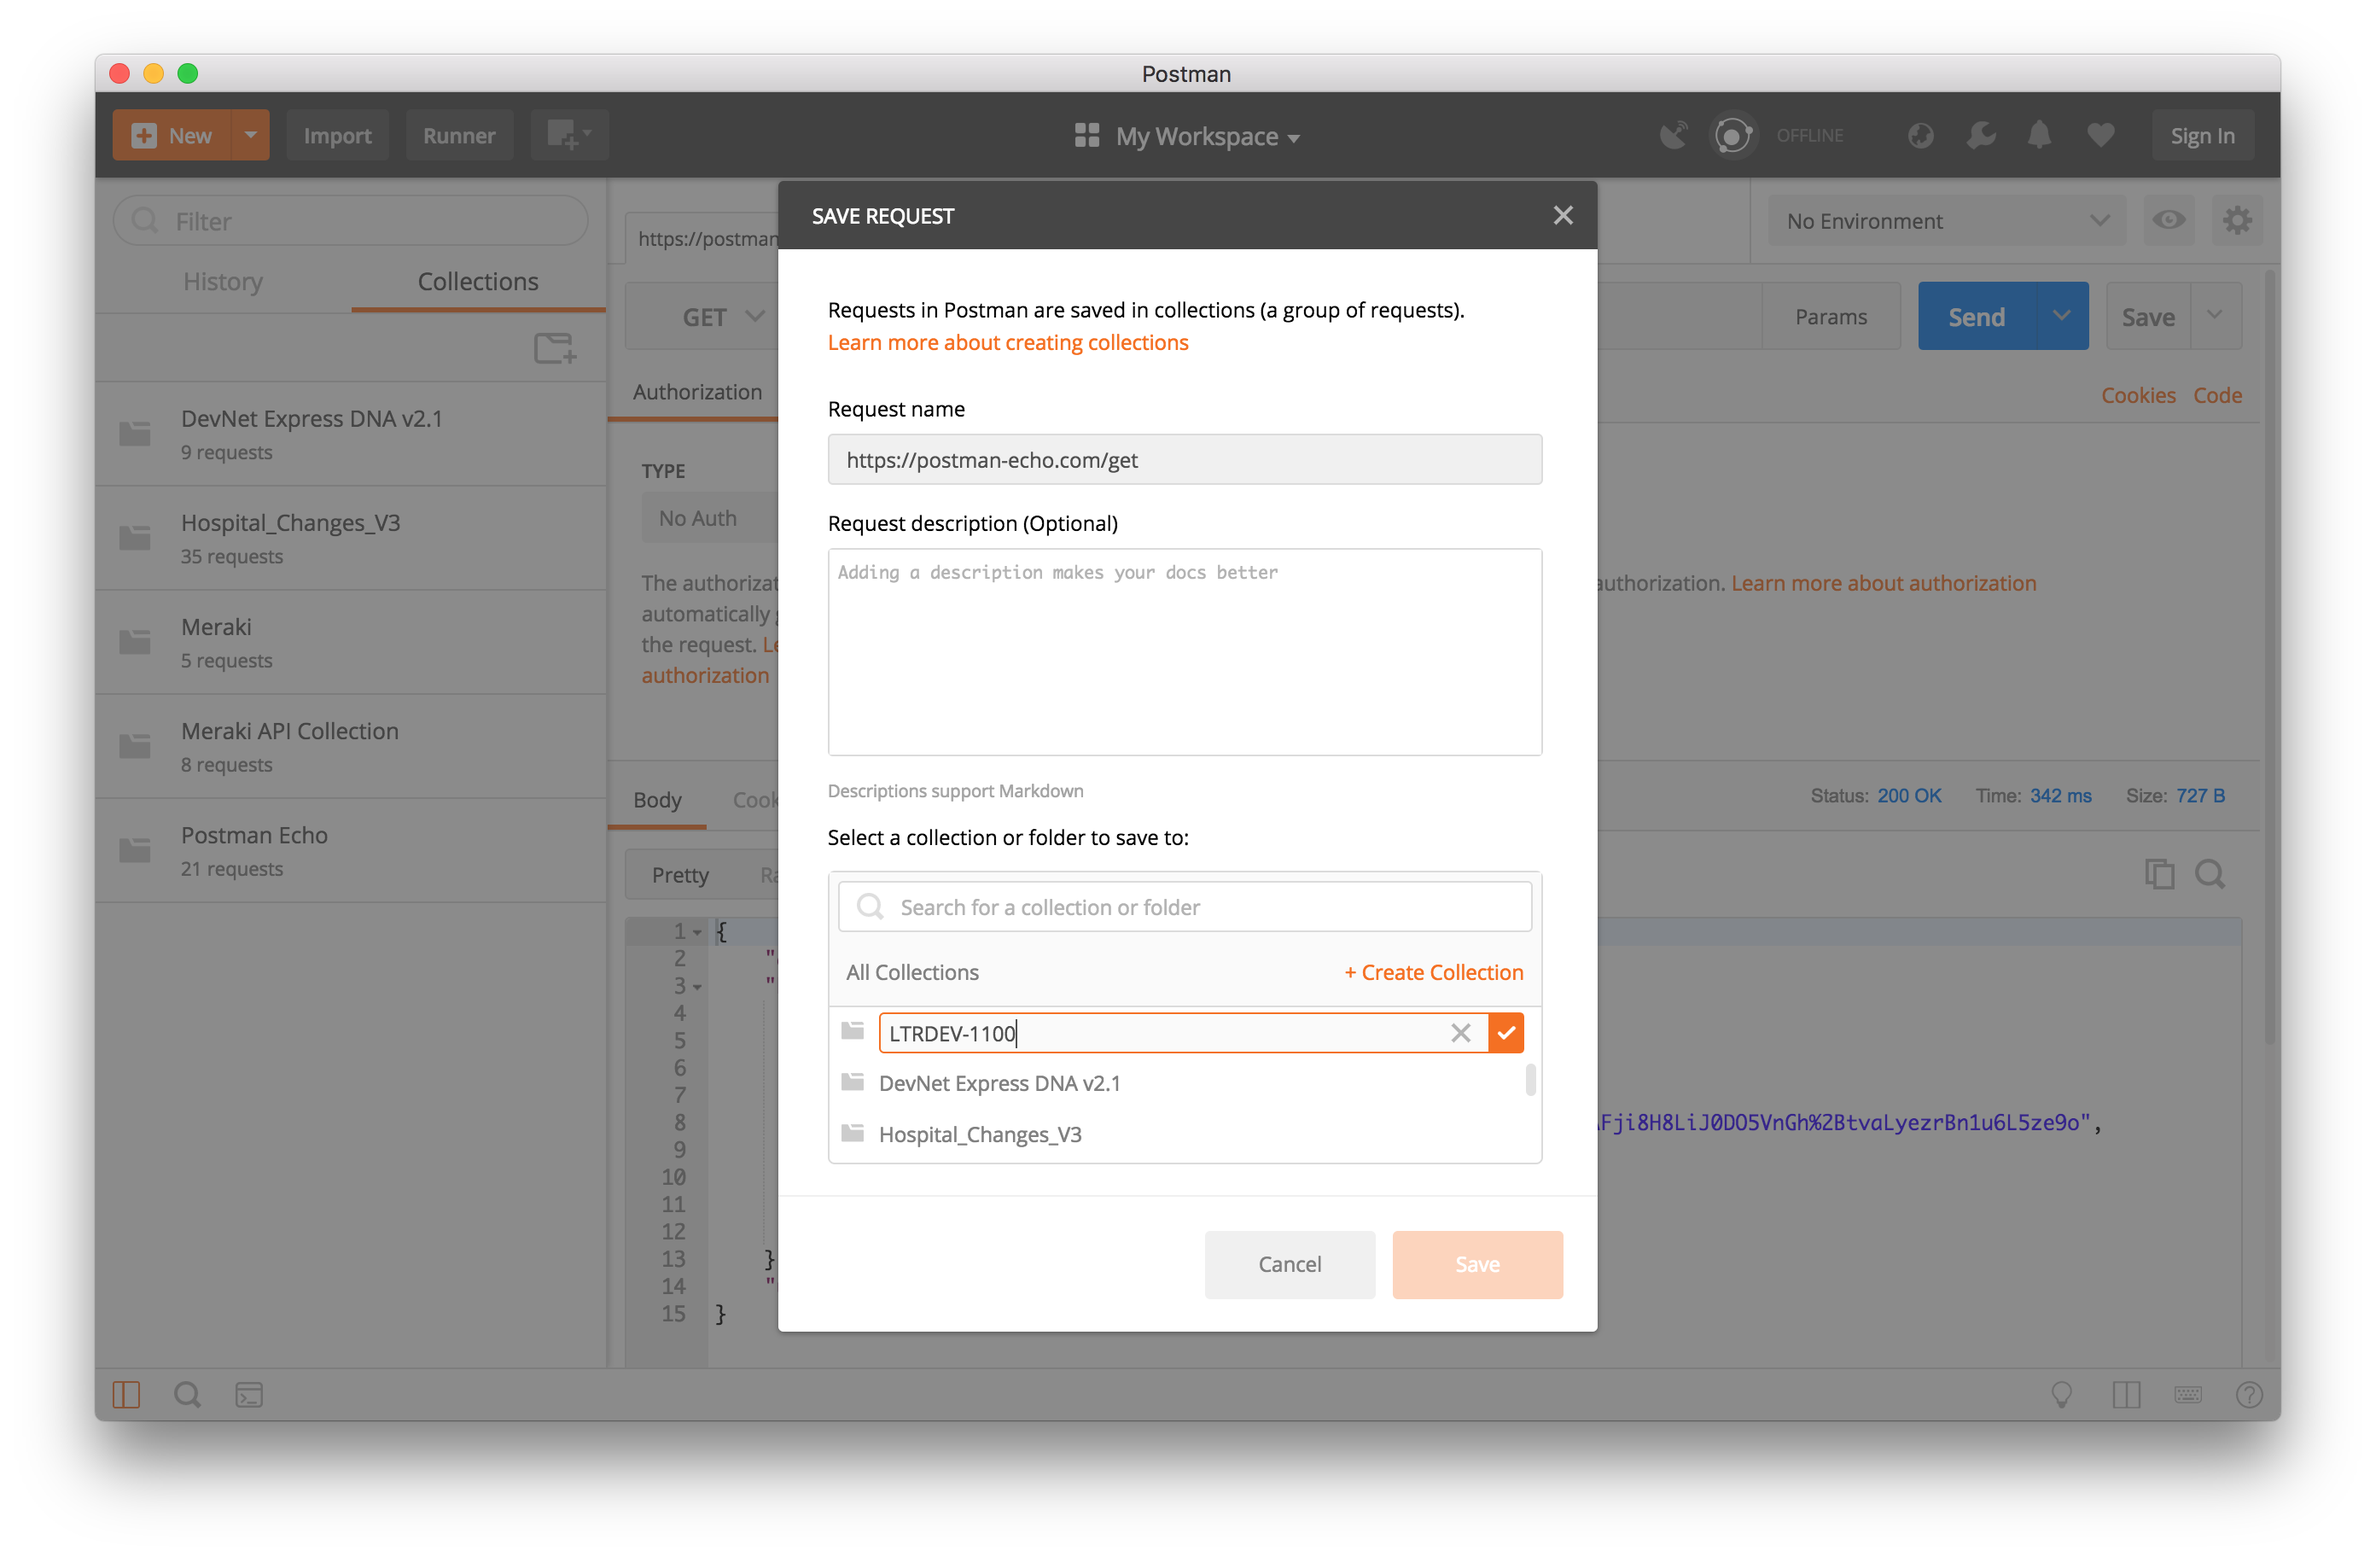
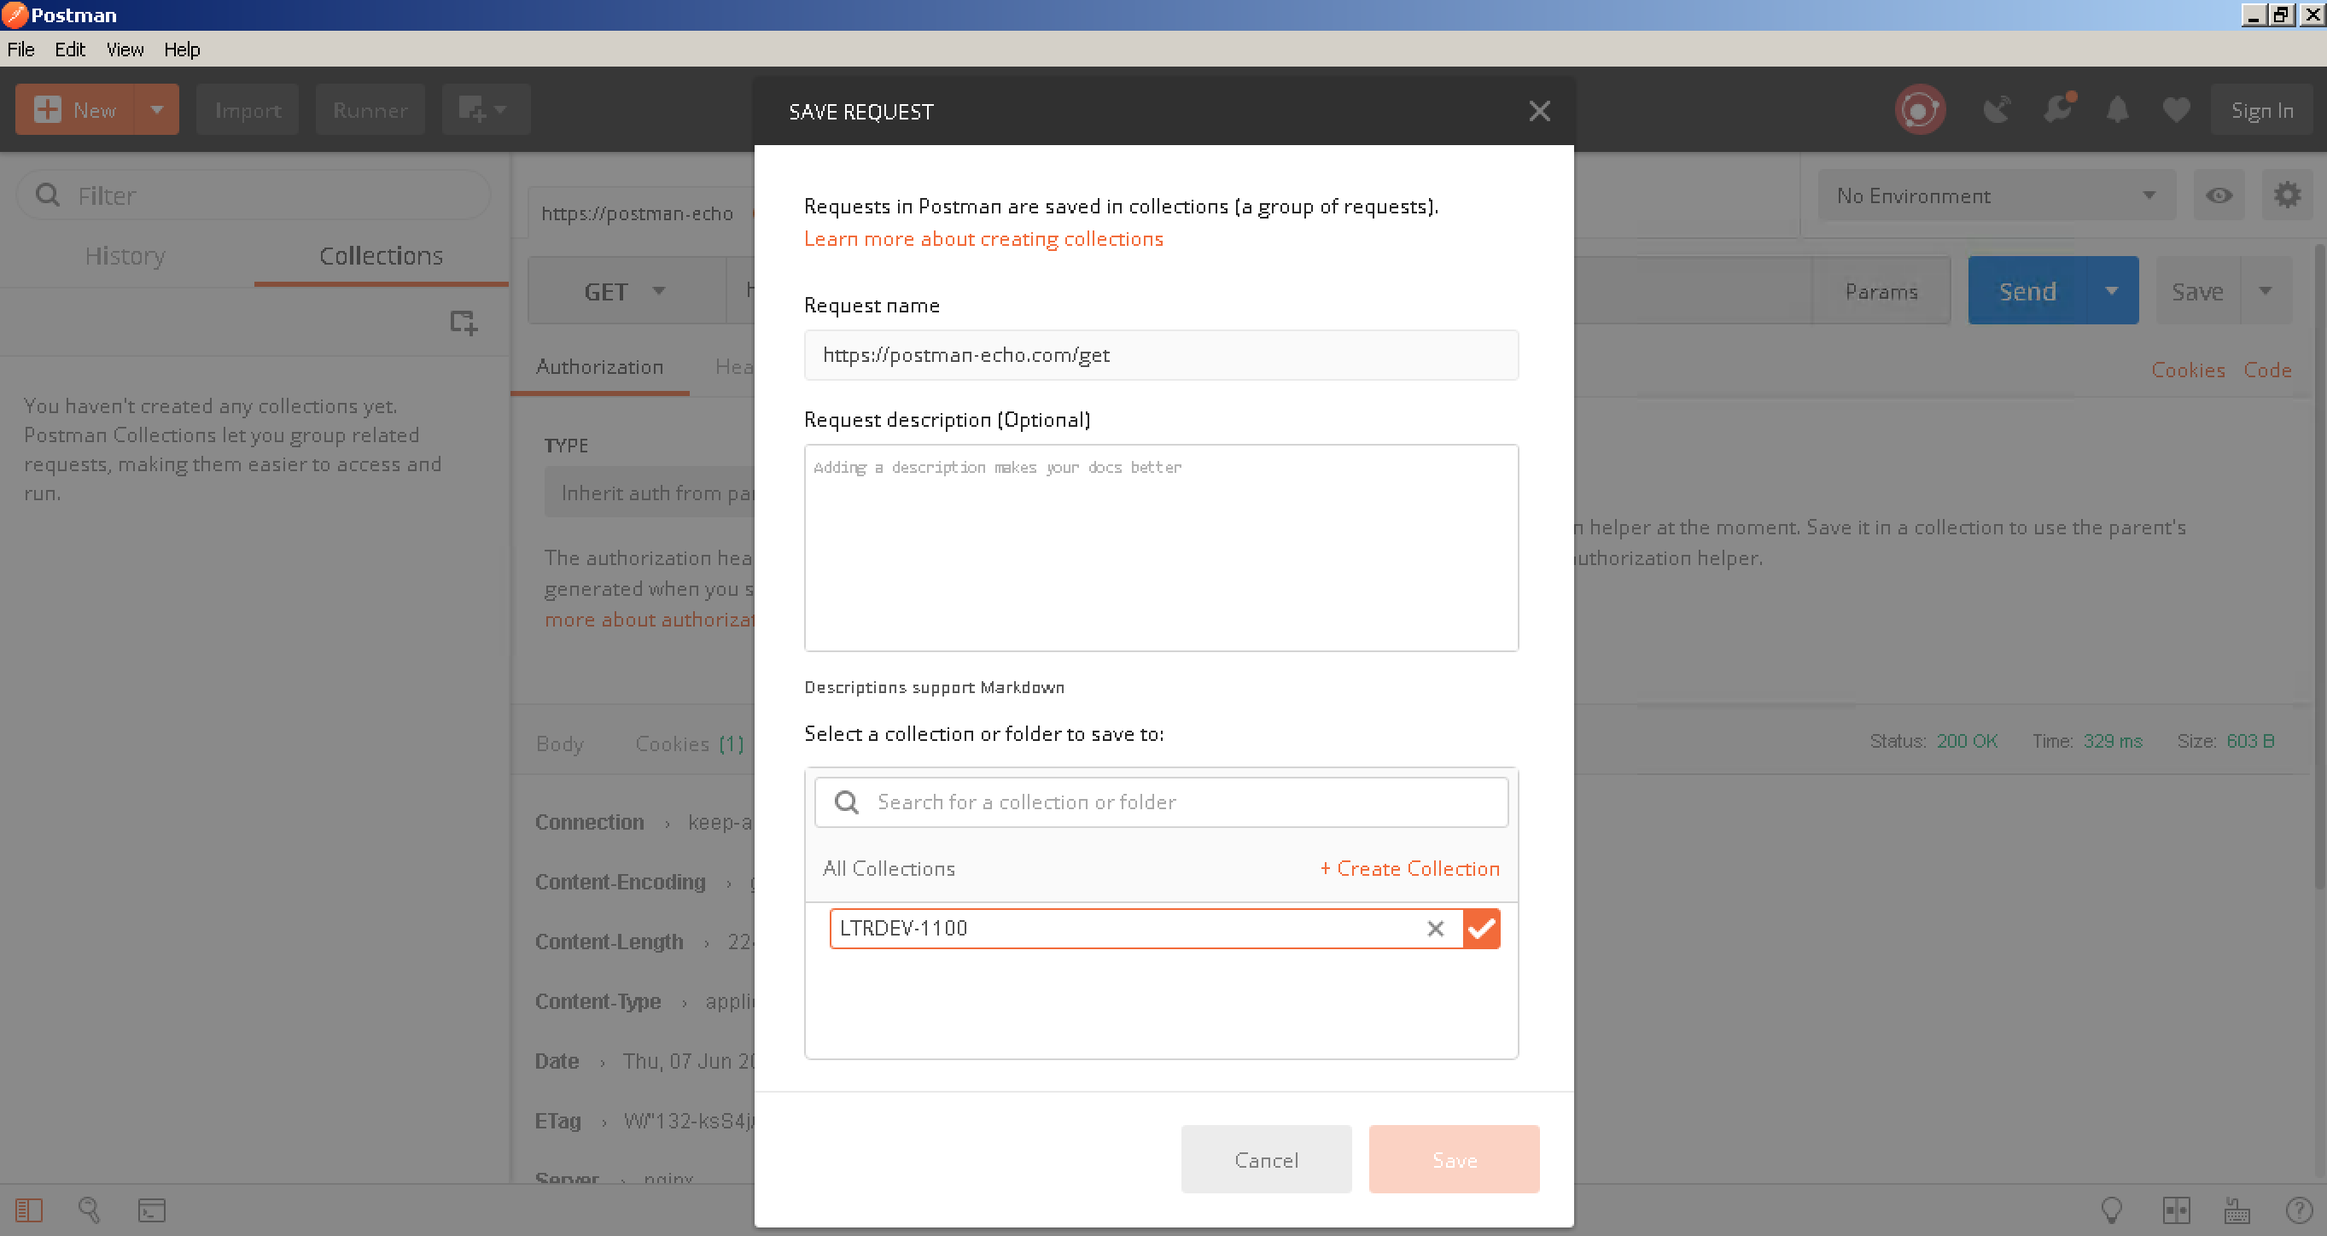
split postman and API content differently

diff --git a/guide/LTRDEV-1100-Guide-02f.md b/guide/LTRDEV-1100-Guide-02f.md
@@ -102,110 +102,6 @@ API's programmatically, as JSON formatted data would be parsed differently than,
     
     ![Postman result headers](assets/postman-03.png)
     
-### Exercise 2: Working in Postman
-
-#### Objectives
-
-The objectives for this exercise are to:
-
-* Learn how and why to create a Collection
-* Save variables in an Environment
-* Use Postman to generate a Python script
-
-#### Step 1: Creating a Collection
-
-In Postman, Collections allow you to save similar requests together for easy access. Imagine a situation where you 
-are learning how to use a particular product or service API. More often than not, there may be more than one request necessary.
-
-For instance, if you are working with the Cisco Meraki dashboard API, you may need to save several different API 
-calls in order to replicate the work later, or reference them to use in a script. The Cisco Meraki dashboard API 
-first call may be to list the organizations of which you are a member. Next, another GET request may be to list the 
-networks available in an organization. After this, you may make another call to list the devices that belong to a particular network.
-
-As you can see, utilizing multiple tabs in the build area becomes important, and furthermore, saving the requests to 
-reference later is very helpful. Let's look at how to make a Collection in Postman to save related requests.
-
-1. Ensure that you still have the `postman-echo.com` GET request tab open. If you previously closed it without saving
-it, please revisit the last exercise to re-create it.
-
-2. On the far right side of the build area, click the dropdown icon next to `Save` and then click `Save As...`
-    
-    ![Postman Save](assets/postman-04.png)
-    
-3. In the `Save Request` box that pops up, note that the lower portion of the screen allows you to search for, 
-select, or create a new collection. Click `+Create Collection` and then type in `LTRDEV-1100` as the new collection 
-name. Click the checkbox to fully create the collection, and then click on the newly created collection to select it.
-Now, click `Save to LTRDEV-1100` to save this request.
-    
-    ![Postman Create Collection](assets/postman-05.png)
-    
-    You can use this technique in the future to save API requests as you are working on them. When managing network 
-    infrastructure that has fully featured API's, a collection could even be the ordered list of requests necessary 
-    to complete a controlled change during a maintenance window. 
-
-#### Step 2: Saving variables using Environments
-
-When working with a particular API or set of API's pertaining to the same project, often times there are some 
-variables that end up being re-used. For instance, you may be using the same authentication token on every request 
-made. Or, perhaps all API calls are being made to the same domain name, even if the rest of the URI is different. The
-domain name can be saved in a variable named 'domain' and then referenced with `{{domain}}` in the request builder.
-
-This ability to define and use variables is helpful for a few reasons. First, it is more efficient to define it once 
-and then use it many times. Second, since the variable is defined once in one place, it is less likely to suffer from
-an inadvertent mistake in one place. And third, as we can save these variables into named groups called 
-`Environments` we can set up multiple profiles for different users or API environments.
-
-While variables can be created and saved in multiple scopes within Postman, we will focus on Environments. An 
-environment is a set of key/value pairs (variables), and it can be quickly toggled for a particular request.  This 
-would allow you to easily change between a test environment and a QA environment, for instance, with the appropriate 
-tokens, URL's, etc for each.
-
-1. First, create a new environment. To do this, click the dropdown for `+ New` in the upper left corner of Postman, 
-and then select `Environment`.
-    
-    ![Postman new menu](assets/postman-06.png)
-    
-2. In this new dialog box, we can name the environment `LTRDEV-1100` and define a variable. Using our basic API 
-request example from before, create a variable named `domain` and define the value as `postman-echo.com`.  Click Add 
-to save the environment.
-    
-    ![Postman new environment](assets/postman-07.png)
-    
-3. Now that our environment is defined, let's enable it for use with a new request. near the upper right portion of 
-the app, there is a dropdown selection box that shows the active environment. This will likely read `No Environment` 
-at this point. Click the drop-down and select `LTRDEV-1100` as the environment to use.
-    
-    ![Postman select environment](assets/postman-08.png)
-    
-4. Let's create an API request using the variable defined in this environment (tip: if you need a quick reference to 
-a variable name or value, click the "eye" icon immediately to the right of the active environment drop-down menu). In
- a new request tab, ensure the method is set to `GET` and enter the URL: `https://{{domain}}/get` and then click `Send`.
-    
-    ![Postman request with variable](assets/postman-09.png)
-    
-5. Notice that the request completed with a status of `200 OK` to the API at postman-echo.com. Also notice that if 
-you mouseover the variable in the request URL, Postman will popup a box showing the variable is an environment 
-variable as well as its value.
-
-#### Step 3: Generating a Python script from Postman
-
-While Postman is a very useful tool to when developing API requests, and can also be used in an ad-hoc way to 
-prescriptively make API calls, often times it is helpful to run the API call in a script. This allows for much 
-greater flexibility in the way requests are made, and also how results are processed.
-
-Postman makes this process easy, as it can auto-generate code to use in a script.
-
-1. In Postman, open the request from your LTRDEV-1100 collection. Then click on `Code` just underneath the `Send` and
-`Save` buttons.
-    
-    ![Postman code select](assets/postman-10.png)
-    
-2. Ensure that the language in the upper left dropdown is set to `Python Requests`. In this window, it shows Python 
-code necessary to execute this API call directly from a Python script. As a matter of fact, you can `Copy to 
-Clipboard` and paste this into PyCharm to test it out.
-    
-    ![Postman code gen](assets/postman-11.png)
-
 ---
 
 Navigation - [Next Page](LTRDEV-1100-Guide-02g.md)

diff --git a/guide/LTRDEV-1100-Guide-03a.md b/guide/LTRDEV-1100-Guide-03a.md
@@ -30,21 +30,37 @@ While there are standards that API's typically follow, the particular calls, par
 1. Let's quickly revisit the documentation for Webex Teams API. Its documentation is interactive and robust, so it is a great example to peruse. Open up the [Webex Teams Developer Site](https://developer.webex.com/getting-started.html) and spend a few minutes looking through the Teams API reference material.
     1. Which HTTP functions are available when working with the 'Rooms' area of the Teams API?
     2. What is the expected output for a well-formed request to list the rooms to which the user belongs?
+    3. Which request should be used to pull information about people, specifically your own account?
 
-2. Next, explore the developer information available at the [Cisco Meraki Dev site](https://create.meraki.io). This site contains reference documentation, code samples, and tutorials related to Cisco Meraki products. These API's allow you to programmatically utilize the meraki wireless access points, network switches, security appliances, and more.
-    1. Click on the [Build](https://create.meraki.io/build/) menu along the top of the page. Which example sounds interesting to you? Spend a few minutes checking out the different examples. Pull up one in particular, using [Meraki API with Google Forms](https://create.meraki.io/build/google-forms-with-the-dashboard-api/). As you read through this, think about what goal is being accomplished? What other ways could the API with a form like this be leveraged? Maybe a firewall rule change request?
-    2. From the top menu, select [Learn](https://create.meraki.io/learn/) to list different tutorials available. We do not have the time to dive into any of these right now, but these types of learning exercises can help bolster your understanding of the Meraki API.
-    3. Explore the [Postman API Docs](https://create.meraki.io/postman) for a full reference of the available API functions. For instance, click on `Devices` and then `List the devices in a network` to see the details of this particular GET call. Click to expand the example response in the right-side column. Which of these fields may be interesting if you were building an inventory script?
+#### Step 2: Making an API call
 
-3. Many Cisco products have consolidated API information at the [Cisco DevNet](https://developer.cisco.com/) site. This web portal contains a plethora of reference documentation, tutorials, learning labs, sandbox environments, etc. This is a great place to start for learning more about the topics discussed in this lab.
+1. Let's take a look at how we can make an API call based on what we've read in the Teams API. Reference the [People](https://developer.webex.com/resource-people.html) section of the Webex Teams documentation.
 
-#### Step 2: Using the docs to make an API call
+2. Open up Postman and start filling in the details for a new request. Set the `Method` to `GET`.
 
-Content to be inserted from previous guide / Postman / Webex Teams
+3. Insert the following URL for the request: https://api.ciscospark.com/v1/people/me
+
+4. Click on `Headers` to set the proper authorization for Webex Teams. The first header should have the key `Authorization` and its value should be set to `Bearer XYZ` where XYZ is replaced with your token. If you recall, the Webex Teams token should be open in a notepad window on your desktop. If not, you can access it again by clicking [here](https://developer.webex.com/getting-started.html#authentication).
+
+5. Create a second header, with a key of `Content-Type` and a value of `application/json`, as shown in the documentation.
+
+    ![Postman setup](assets/postman-12.png) 
+
+6. Go ahead and hit `Send` in Postman to observe the results! If all goes well, you should be greeted with a `200 OK` status and a body of JSON-formatted key-value pairs.
+
 
 #### Step 3: Automate with a script
 
-Should we keep this section?
+When working with API's in postman, it is trivial to turn your API request into Python code. This can provide the basis to wrap scripting logic around the request. For instance, maybe you want to repeat 'people' info as we just did, but with a set of users. This code snippet can become the basis to facilitate automation.
+
+1. In your already-open tab for getting your own details in Webex teams, click the `Code` button just below the `Save` button on the right side of the screen.
+
+    ![Code button](assets/postman-13.png)
+
+2. Select Python -> Requests from the upper left language dropdown. This presents code that can be copied to the clipboard and pasted in a file to run with the python interpreter. Easy as that!
+
+    ![Code](assets/postman-14.png)
+
 
 ---
 
